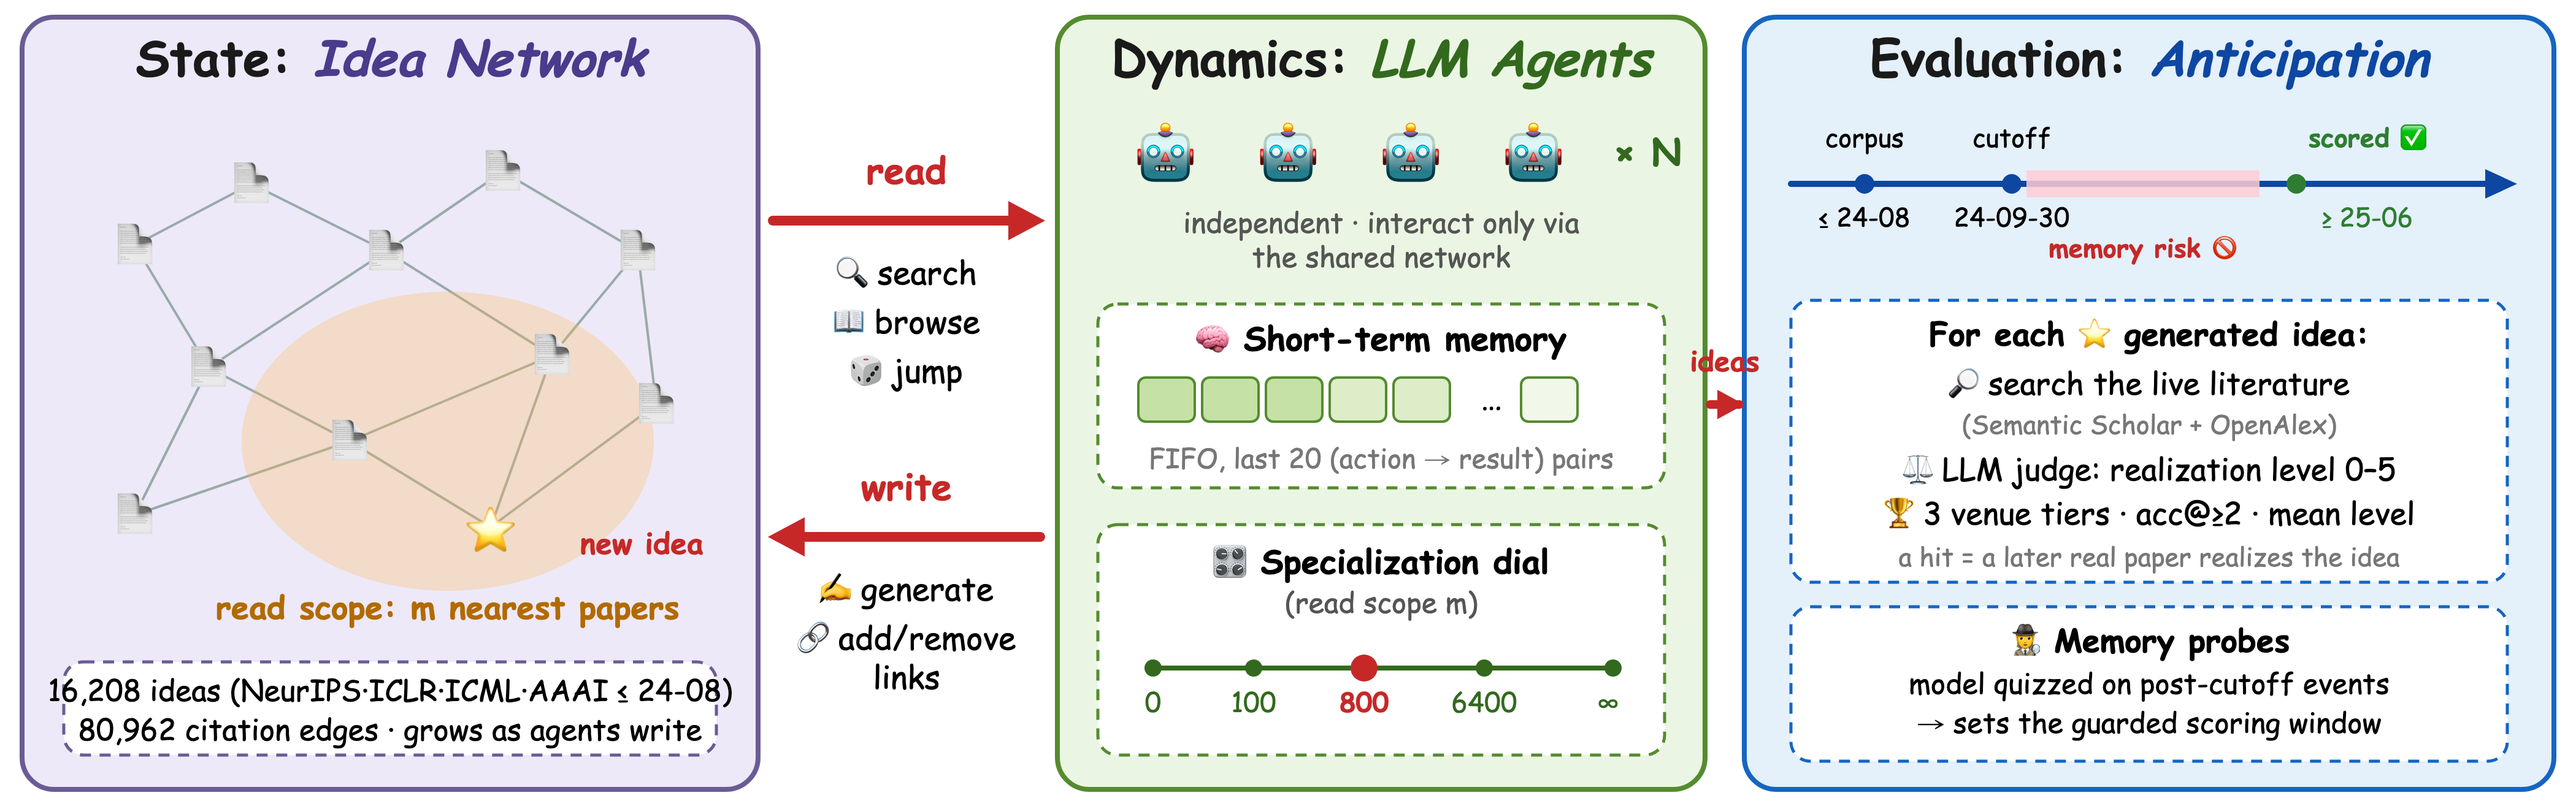
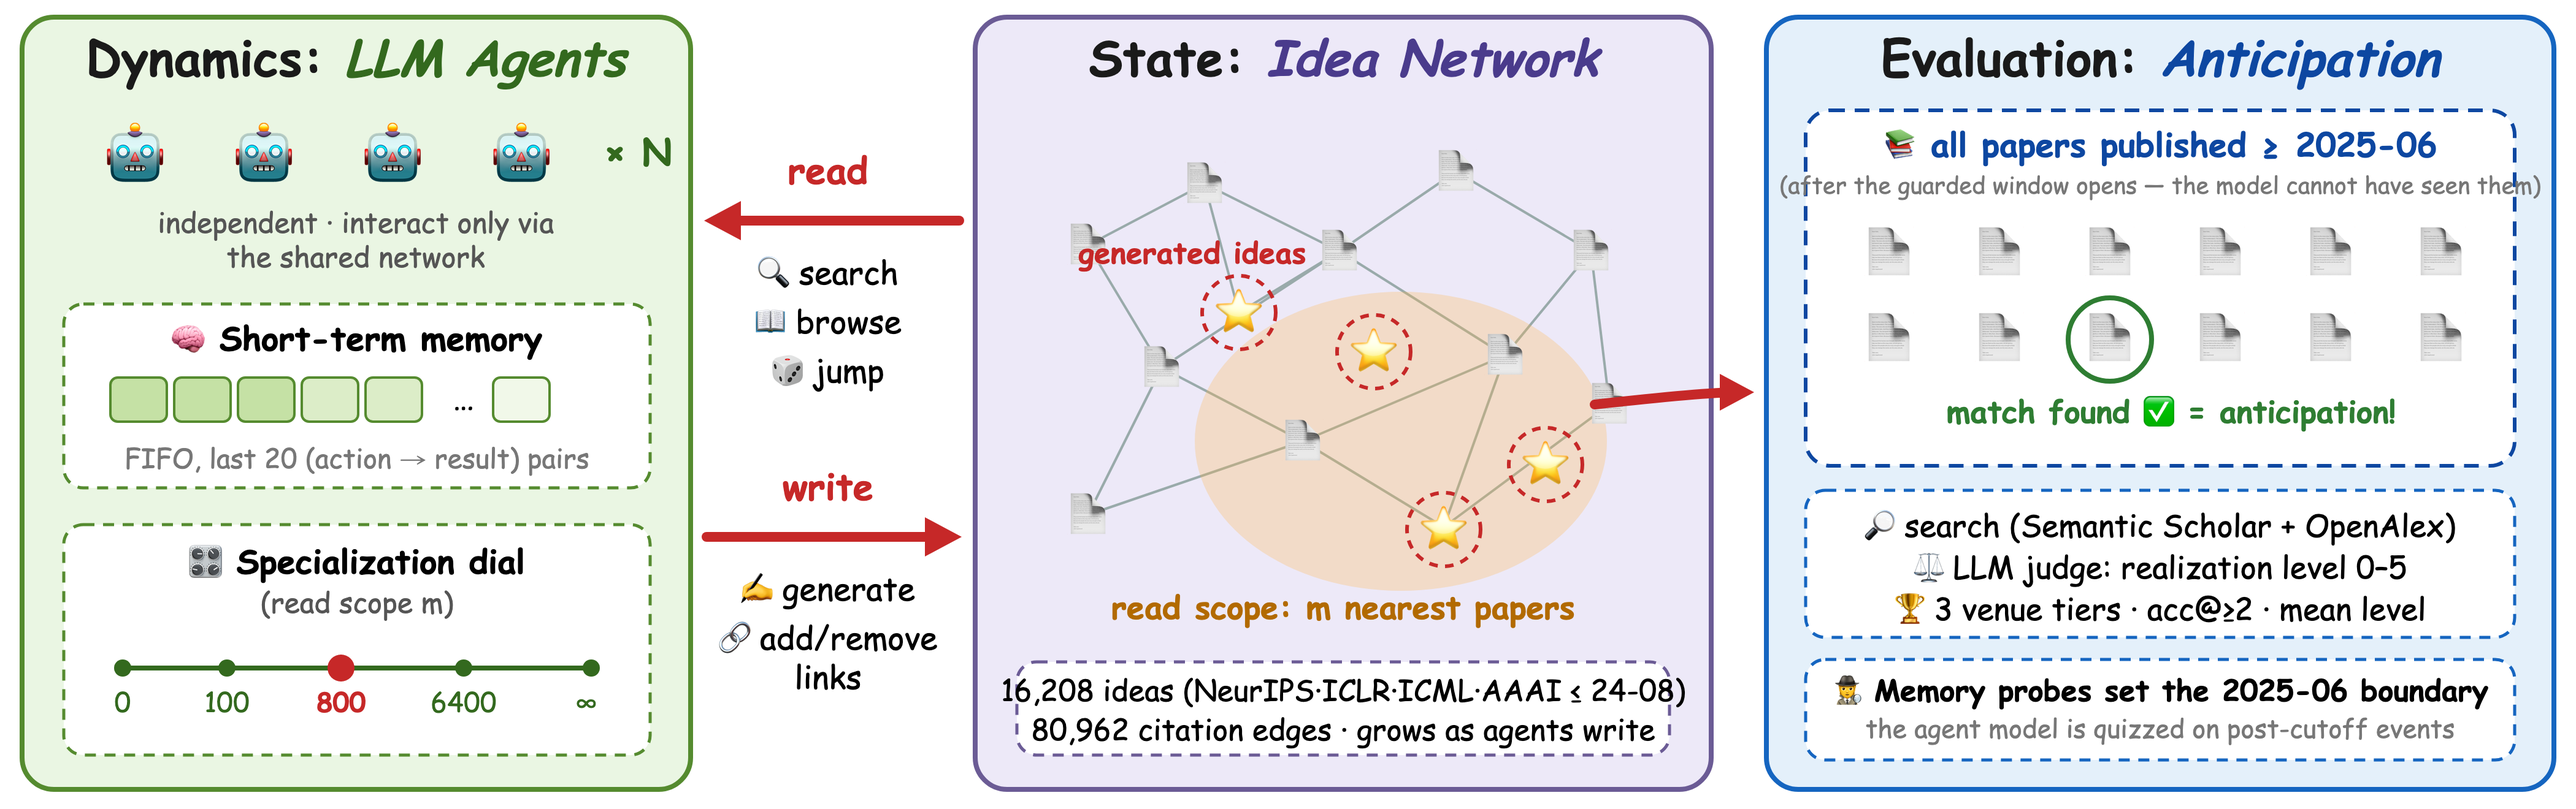
figure: evaluation redrawn as the >=2025-06 paper set, adjacent to the network; circled generated ideas point into it; caption updated

diff --git a/paper/main.tex b/paper/main.tex
@@ -198,17 +198,18 @@ current agent teams are from literature-mediated collaboration.
 \begin{center}
 \includegraphics[width=\linewidth]{architecture.png}
 \end{center}
-\caption{Overview. \textbf{State} (left): a citation network of
-16{,}208 one-paragraph ideas distilled from four venues' papers; a
-specialist's readable scope is the $m$ corpus papers nearest its topic
-anchor, and generated ideas (\smash{$\star$}) join the network
-permanently. \textbf{Dynamics} (middle): $N$ LLM agents that interact
-only through the shared network, each with a five-action interface, a
-20-entry FIFO memory, and a position on the specialization dial.
-\textbf{Evaluation} (right): an idea scores only if a paper published
-in the guarded window realizes it, verified by live literature search
-and graded by an LLM judge; memory probes on post-cutoff events set the
-window's start.}
+\caption{Overview. \textbf{Dynamics} (left): $N$ LLM agents that
+interact only through the shared network, each with a 20-entry FIFO
+memory and a position on the specialization dial; their five actions
+live on the read/write channels to the state. \textbf{State}
+(middle): a citation network of 16{,}208 one-paragraph ideas distilled
+from four venues' papers; a specialist reads only the $m$ corpus
+papers nearest its topic anchor, and generated ideas
+(\smash{$\star$}) join the network permanently. \textbf{Evaluation}
+(right): each generated idea is matched against the set of papers
+published on/after 2025-06---after the guarded window opens, so the
+agent model cannot have seen them---via live literature search and an
+LLM judge; memory probes on post-cutoff events set the window.}
 \label{fig:arch}
 \end{figure}
 
